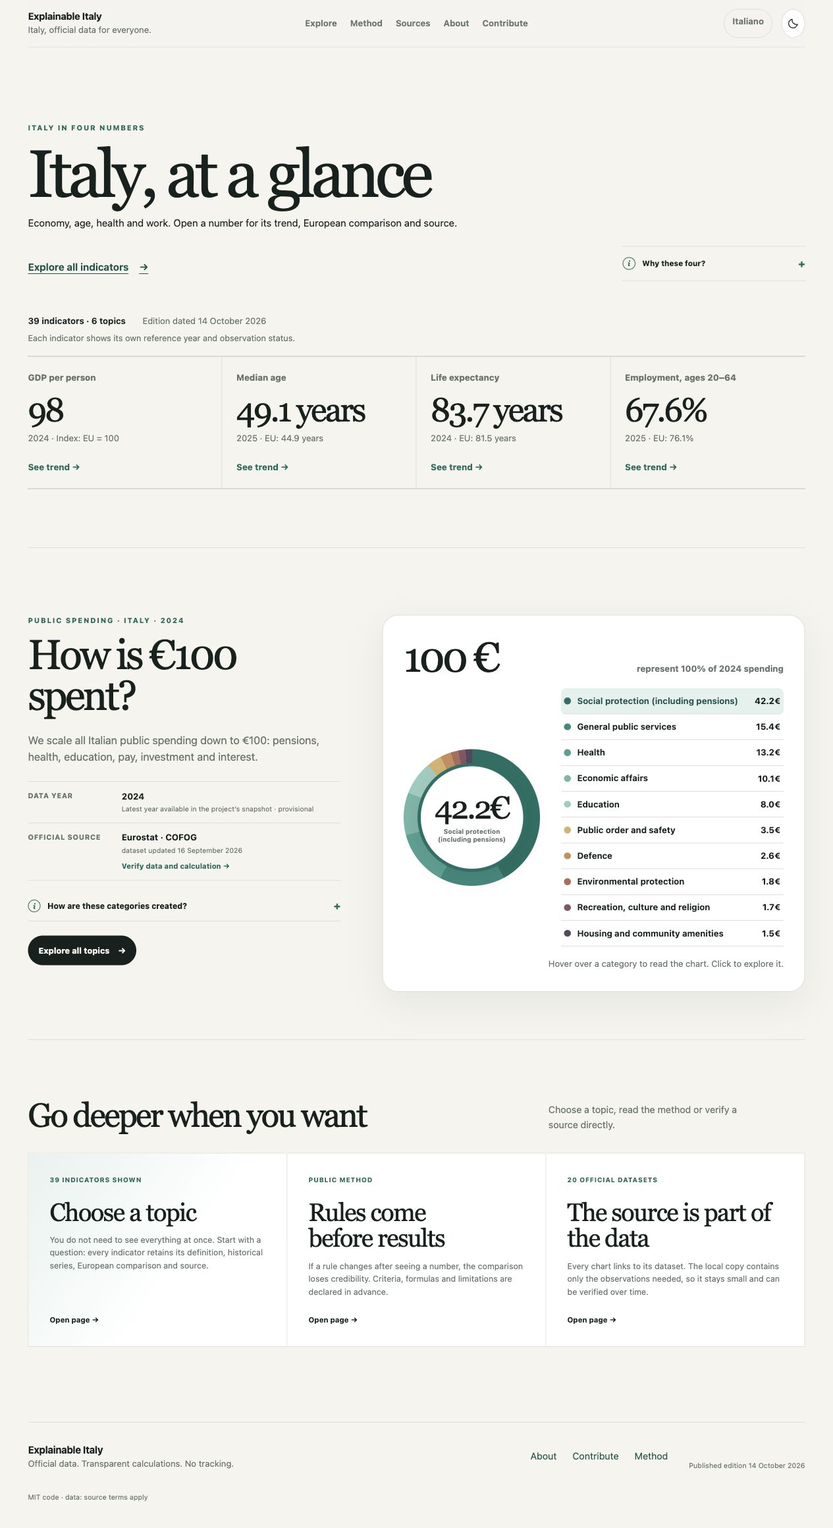
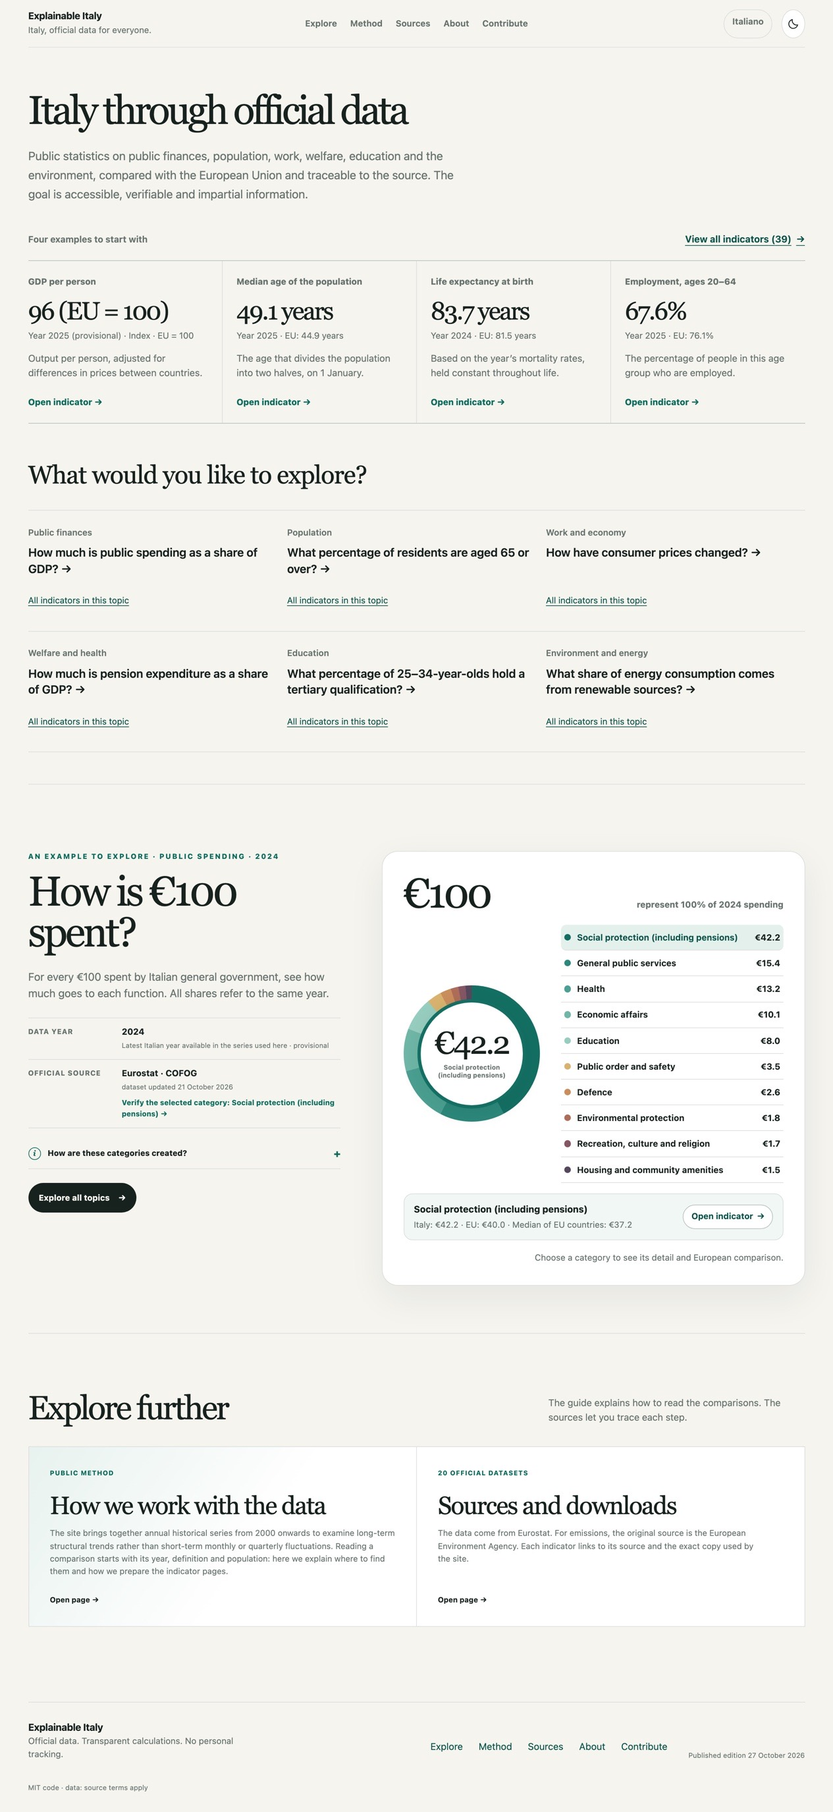
Refresh documentation, dashboard screenshots, localized social previews, and security audit

diff --git a/app/components/dashboard-copy.ts b/app/components/dashboard-copy.ts
@@ -274,15 +274,16 @@ export const copy = {
     futureBody:
       "Aggiungeremo nuovi temi quando avremo fonti adatte e confronti verificabili.",
     futureToggle: "Vedi le prossime aree di lavoro",
+    futureLink: "Consulta l’elenco completo delle possibili estensioni",
     roadmap: [
-      "Imposte, contributi e composizione del prelievo",
-      "Distribuzione dei redditi, disuguaglianza e potere d’acquisto",
-      "Medici, posti letto, tempi di attesa e risultati sanitari",
-      "Ricerca, innovazione, produttività e digitalizzazione",
-      "Giustizia, durata dei procedimenti e sistema carcerario",
-      "Trasporti, mobilità, sicurezza stradale e infrastrutture",
-      "Casa, affitti, mutui e costi dell’abitare",
-      "Commercio estero, dipendenza energetica e materie prime",
+      "Pressione fiscale, composizione delle entrate, saldo primario e fondi europei",
+      "Produttività per ora lavorata, salari reali, costo del lavoro ed export",
+      "Divario occupazionale di genere, lavoro temporaneo e ricerca e sviluppo",
+      "Reddito disponibile, disuguaglianza e povertà assoluta (fonte ISTAT)",
+      "Costo dell’abitazione, servizi per l’infanzia, giustizia e partecipazione culturale",
+      "Spesa sanitaria per funzione, personale sanitario e bisogni di cura non soddisfatti",
+      "Risultati scolastici comparabili, spesa per studente e mobilità sociale",
+      "Dipendenza energetica, emissioni pro capite, qualità dell’aria, suolo e mobilità",
     ],
     contributeEyebrow: "Open source",
     contributeTitle: "Aperto a chi vuole dare una mano",
@@ -312,7 +313,7 @@ export const copy = {
       "Ogni voce apre un modulo su GitHub. Serve un account e le segnalazioni, insieme alle risposte, sono pubbliche. Puoi scrivere in italiano o in inglese.",
     contributionGuide: "Come contribuire al codice",
     contributionLink: "Visita il progetto su GitHub",
-    footer: "Dati ufficiali. Elaborazioni trasparenti. Nessun tracciamento.",
+    footer: "Dati ufficiali. Elaborazioni trasparenti. Nessun tracciamento personale.",
     footerLicense: "Codice MIT · dati: condizioni delle fonti",
     themeLight: "Usa tema chiaro",
     themeDark: "Usa tema scuro",
@@ -574,15 +575,16 @@ export const copy = {
     futureBody:
       "We will add topics when suitable sources and verifiable comparisons are available.",
     futureToggle: "See the next areas of work",
+    futureLink: "Read the full list of possible extensions",
     roadmap: [
-      "Taxes, social contributions and the composition of the tax burden",
-      "Income distribution, inequality and purchasing power",
-      "Doctors, hospital beds, waiting times and health outcomes",
-      "Research, innovation, productivity and digitalisation",
-      "Justice, length of proceedings and the prison system",
-      "Transport, mobility, road safety and infrastructure",
-      "Housing, rents, mortgages and the cost of living",
-      "Foreign trade, energy dependence and raw materials",
+      "Tax burden, revenue composition, primary balance and EU funds",
+      "Productivity per hour worked, real wages, labour cost and exports",
+      "Gender employment gap, temporary work and research and development",
+      "Disposable income, inequality and absolute poverty (ISTAT)",
+      "Housing costs, early-childhood services, judicial times and cultural participation",
+      "Health spending by function, healthcare workforce and unmet medical needs",
+      "Comparable educational outcomes, spending per student and social mobility",
+      "Energy dependence, per-capita emissions, air quality, land take and mobility",
     ],
     contributeEyebrow: "Open source",
     contributeTitle: "Open to anyone who wants to help",
@@ -610,7 +612,7 @@ export const copy = {
       "Each option opens a GitHub form. You need an account, and reports and replies are public. You can write in English or Italian.",
     contributionGuide: "How to contribute code",
     contributionLink: "Visit the project on GitHub",
-    footer: "Official data. Transparent calculations. No tracking.",
+    footer: "Official data. Transparent calculations. No personal tracking.",
     footerLicense: "MIT code · data: source terms apply",
     themeLight: "Use light theme",
     themeDark: "Use dark theme",

diff --git a/app/metadata.ts b/app/metadata.ts
@@ -10,10 +10,10 @@ export function pageUrl(locale: Locale, path = "") {
 export function pageMetadata(locale: Locale, path: string, title: string, description?: string): Metadata {
   const fullTitle = title === "Explainable Italy" ? title : `${title} · Explainable Italy`;
   const image = {
-    url: `${siteUrl}/social-preview-v2.jpg`,
+    url: `${siteUrl}/${locale === "it" ? "social-preview-v2.jpg" : "social-preview-en-v2.jpg"}`,
     width: 1536,
     height: 804,
-    alt: locale === "it" ? "Explainable Italy. L’Italia, i dati ufficiali per tutti." : "Explainable Italy. Official data for everyone.",
+    alt: locale === "it" ? "Explainable Italy. L’Italia, i dati ufficiali per tutti." : "Explainable Italy. Italy, official data for everyone.",
   };
   return {
     title: fullTitle,

diff --git a/app/globals.css b/app/globals.css
@@ -272,19 +272,25 @@ p {
   border-bottom: 1px solid var(--line);
 }
 
-.roadmap h3 {
-  margin: 0;
-  font-family: Georgia, "Times New Roman", serif;
-  font-size: 2rem;
-  font-weight: 500;
-}
-
-.roadmap > div p {
-  color: var(--muted);
-}
-
 .roadmap li:nth-child(odd) {
   border-right: 1px solid var(--line);
+}
+
+.roadmap-more {
+  margin: 0;
+  border-top: 1px solid var(--line);
+  padding: 0.85rem 1rem;
+  font-size: 0.75rem;
+  font-weight: 680;
+}
+
+.roadmap-more a {
+  color: var(--accent);
+  text-decoration: none;
+}
+
+.roadmap-more a:hover {
+  text-decoration: underline;
 }
 
 .contribute-section .contribution-ways {

diff --git a/app/components/StaticViews.tsx b/app/components/StaticViews.tsx
@@ -224,6 +224,17 @@ export function AboutView({ locale }: { locale: Locale }) {
             <li key={item}>{item}</li>
           ))}
         </ol>
+        <p className="roadmap-more">
+          <a
+            href={`https://github.com/andrea-gentilini/explainable-italy/blob/main/docs/ROADMAP.md#${
+              locale === "it" ? "italiano" : "english"
+            }`}
+            target="_blank"
+            rel="noreferrer"
+          >
+            {labels.futureLink} <span aria-hidden="true">↗</span>
+          </a>
+        </p>
       </details>
     </section>
   );

diff --git a/README.md b/README.md
@@ -24,7 +24,7 @@ Explainable Italy makes official statistics about Italy easier to read, compare 
 
 ## For visitors — Explore and read the comparisons
 
-The six themes cover **public spending**, **population**, **work and the economy**, **welfare and health**, **education**, and **environment and energy**. You can search in everyday language, pick any available year, inspect the full historical series as a chart or accessible table, and open each indicator’s verification page to inspect definitions, national observations and source quality flags. Shareable URLs preserve the selected year and search context.
+The six themes cover **public finances**, **population**, **work and economy**, **welfare and health**, **education**, and **environment and energy**. You can search in everyday language, pick any available year, inspect the full historical series as a chart or accessible table, and open each indicator’s verification page to inspect definitions, national observations and source quality flags. Shareable URLs preserve the selected year and search context.
 
 For example, open [life expectancy in 2010](https://andrea-gentilini.github.io/explainable-italy/en/data/life-expectancy/?year=2010) and [verify its source and calculation](https://andrea-gentilini.github.io/explainable-italy/en/data/life-expectancy/source/?year=2010).
 
@@ -53,7 +53,7 @@ Every figure on the site can be traced and reproduced offline:
 
 - **Per-indicator CSV:** `/data/indicators/<id>.csv` (linked on every indicator card and verification page), containing the historical series for Italy, the official EU aggregate and the EU country median, with units, dataset code, coverage, missing countries and quality flags.
 - **Complete dataset in CSV and JSON:** [`public/data/dashboard.csv`](public/data/dashboard.csv) and [`public/data/dashboard.json`](public/data/dashboard.json) (both downloadable from the [Sources page](https://andrea-gentilini.github.io/explainable-italy/en/sources/)).
-- **Source register (`manifest.json`):** [`data/manifest.json`](data/manifest.json) (exported at `/data/manifest.json`), listing for all 20 datasets the exact API query URL, Eurostat Data Browser URL, official metadata URL, permanent DOI, source update date, project acquisition date, byte size and SHA256 checksum.
+- **Source register (`manifest.json`):** [`data/manifest.json`](data/manifest.json) (exported at `/data/manifest.json`), listing for all 20 datasets the exact API query URL, Eurostat Data Browser URL, official metadata URL (where published by Eurostat), permanent DOI, source update date, project acquisition date, byte size and SHA256 checksum.
 - **Exact raw snapshots:** [`data/raw/eurostat/`](data/raw/eurostat/) (exported byte-for-byte at `/data/raw/eurostat/<code>.json`), containing the exact JSON-stat responses used to compute the published edition. Links to the live Eurostat API are kept separate because upstream datasets can be revised after acquisition.
 
 ### Methodology and licensing
@@ -69,7 +69,7 @@ Every figure on the site can be traced and reproduced offline:
 
 ### Run locally
 
-Requires **Node.js 22.13 or newer** and **pnpm 11.9.0**.
+Requires **Node.js 22.13 or newer** (CI runs on **Node.js 24**) and **pnpm 11.9.0**.
 
 ```sh
 git clone https://github.com/andrea-gentilini/explainable-italy.git
@@ -95,8 +95,8 @@ Next.js and React generate a **static export** in `out/`. Search, year selection
 
 | Location | Contents |
 | --- | --- |
-| `app/` | Bilingual routes (`app/(it)/` default Italian, `app/en/` English), UI components and verification views |
-| `scripts/` | Eurostat JSON-stat acquisition, metadata rules, series processing, validation and refresh reporting |
+| `app/` | Bilingual routes (`app/(it)/` default Italian, `app/en/` English), UI components, unified stylesheet (`app/globals.css`) and verification views |
+| `scripts/` | Declarative indicator catalogue (`scripts/indicator-catalog.mjs`), Eurostat JSON-stat acquisition, metadata rules, series processing, validation and refresh reporting |
 | `data/raw/eurostat/` | Committed JSON-stat source snapshots |
 | `data/processed/` & `data/manifest.json` | Processed dashboard data and dataset provenance register |
 | `public/data/` | Publicly downloadable snapshots, `manifest.json`, `dashboard.json`, `dashboard.csv` and per-indicator CSVs |

diff --git a/DATA_LICENSE.md b/DATA_LICENSE.md
@@ -14,14 +14,16 @@ La licenza MIT in `LICENSE` riguarda il codice e la documentazione originale di 
 
 I dataset utilizzati sono diffusi da Eurostat. Per ogni dataset, `data/manifest.json` conserva:
 
-1. codice e titolo;
-2. collegamento al Data Browser;
-3. URL esatto della selezione API;
-4. DOI;
-5. data di aggiornamento comunicata dalla fonte;
-6. data di acquisizione del progetto;
-7. impronta SHA256 e dimensione della copia locale;
-8. percorso dello snapshot esatto scaricabile dal sito.
+1. istituzione che diffonde il dato e fonte originaria;
+2. codice e titolo;
+3. collegamento al Data Browser;
+4. collegamento ai metadati ufficiali (quando pubblicati da Eurostat);
+5. URL esatto della selezione API;
+6. DOI;
+7. data di aggiornamento comunicata dalla fonte;
+8. data di acquisizione del progetto;
+9. impronta SHA256 e dimensione della copia locale;
+10. percorso dello snapshot esatto scaricabile dal sito.
 
 Gli snapshot scaricabili sono copie delle selezioni ufficiali conservate dal progetto. I CSV e i JSON elaborati includono i riferimenti al dataset; i CSV dei singoli indicatori mantengono anche l’unità di misura.
 
@@ -33,7 +35,7 @@ Eurostat non è responsabile di traduzioni, sintesi accessibili, mediane, presen
 
 ### European Environment Agency
 
-Per il dataset Eurostat `sdg_13_10` e per l’inventario `env_air_gge`, i metadati indicano come fonte originaria la European Environment Agency (EEA), sulla base degli inventari UNFCCC.
+Per il dataset Eurostat `sdg_13_10` utilizzato dal sito (derivato dall’inventario `env_air_gge`), i metadati ufficiali indicano come fonte originaria la European Environment Agency (EEA), sulla base degli inventari UNFCCC.
 
 Si applicano anche le [condizioni di riuso EEA](https://www.eea.europa.eu/en/legal-notice). La fonte viene attribuita nella scheda, nella pagina di verifica, nella pagina Fonti e nel manifest.
 
@@ -53,14 +55,16 @@ The MIT licence in `LICENSE` applies to Explainable Italy’s original code and 
 
 The datasets used on this site are disseminated by Eurostat. For every dataset, `data/manifest.json` records:
 
-1. dataset code and title;
-2. link to the Eurostat Data Browser;
-3. exact API selection URL;
-4. permanent identifier (DOI);
-5. dataset update date reported by the source;
-6. project acquisition date;
-7. SHA256 checksum and byte size of the local copy;
-8. path to the exact snapshot downloadable from the site.
+1. disseminating institution and original institution;
+2. dataset code and title;
+3. link to the Eurostat Data Browser;
+4. link to official metadata (where published by Eurostat);
+5. exact API selection URL;
+6. permanent identifier (DOI);
+7. dataset update date reported by the source;
+8. project acquisition date;
+9. SHA256 checksum and byte size of the local copy;
+10. path to the exact snapshot downloadable from the site.
 
 The downloadable snapshots are local copies of the official API selections retained by the project for reproducibility. Processed CSV and JSON exports include dataset identifiers, and per-indicator CSVs also include the unit of measure.
 
@@ -72,7 +76,7 @@ Eurostat is not responsible for translations, accessible summaries, medians, pre
 
 ### European Environment Agency
 
-For Eurostat datasets `sdg_13_10` and `env_air_gge`, the official metadata identify the European Environment Agency (EEA), based on UNFCCC inventories, as the original source.
+For the Eurostat dataset `sdg_13_10` used on this site (derived from the `env_air_gge` inventory), the official metadata identify the European Environment Agency (EEA), based on UNFCCC inventories, as the original source.
 
 The [EEA legal notice and reuse terms](https://www.eea.europa.eu/en/legal-notice) also apply. The original source is attributed on the indicator card, on the source verification page, on the Sources page and in `data/manifest.json`.
 

diff --git a/SECURITY.md b/SECURITY.md
@@ -18,9 +18,9 @@ Il progetto è un sito statico: non usa cookie di profilazione, pubblicità o tr
 
 ### Verifica delle dipendenze
 
-Next.js ed `eslint-config-next` sono aggiornati alla versione `16.4.3`. Le librerie indirette `brace-expansion` e `js-yaml` sono aggiornate alle correzioni disponibili. `pnpm audit --prod` non segnala vulnerabilità note.
+Next.js ed `eslint-config-next` sono aggiornati alla versione `16.4.4`, React a `19.3.1`, ESLint a `10.14.0` e TypeScript a `6.0.3`. `pnpm audit --prod` non segnala vulnerabilità note.
 
-L’audit che include i pacchetti di sviluppo segnala [GHSA-vfj7-8cjw-p6xm](https://github.com/advisories/GHSA-vfj7-8cjw-p6xm) per `braces@3.0.3`, dipendenza indiretta del controllo ESLint. Non fa parte dei file del sito statico esportato. L’audit npm indica `>=3.0.4` come intervallo corretto, ma il registro npm pubblica ancora soltanto `3.0.3` come ultima versione e la pagina GHSA riporta che non è disponibile una versione corretta. Non esiste quindi una correzione installabile alla data della verifica. Il controllo lavora sui percorsi del repository; non deve ricevere pattern glob da utenti esterni. Il prossimo aggiornamento delle dipendenze deve ricontrollare questo avviso.
+L’audit che include i pacchetti di sviluppo segnala [GHSA-g3hv-75wg-m249](https://github.com/advisories/GHSA-g3hv-75wg-m249) (severità moderata) per `minimatch` (`3.1.5` e `10.2.6`), dipendenza indiretta di ESLint e dei relativi plugin. Non fa parte dei file del sito statico esportato. Entrambe le versioni installate sono le più recenti dei rispettivi rami principali (`3.x` e `10.x`), mentre la correzione indicata dall’avviso (`>=11.0.1`) appartiene a una nuova versione maggiore incompatibile non ancora adottata a monte da ESLint e dai suoi plugin. Il controllo lavora esclusivamente sui percorsi del repository e non riceve pattern glob da utenti esterni. Il prossimo aggiornamento delle dipendenze deve ricontrollare questo avviso.
 
 ---
 
@@ -38,6 +38,6 @@ The project exports a static site: it uses no profiling cookies, advertising or 
 
 ### Dependency audit
 
-Next.js and `eslint-config-next` are pinned at `16.4.3`. Indirect dependencies `brace-expansion` and `js-yaml` are pinned to patched releases. `pnpm audit --prod` reports zero known vulnerabilities.
+Next.js and `eslint-config-next` are pinned at `16.4.4`, React at `19.3.1`, ESLint at `10.14.0` and TypeScript at `6.0.3`. `pnpm audit --prod` reports zero known vulnerabilities.
 
-Running an audit that includes development-only packages still reports [GHSA-vfj7-8cjw-p6xm](https://github.com/advisories/GHSA-vfj7-8cjw-p6xm) on `braces@3.0.3`, an indirect dependency of ESLint. It is never shipped in the exported static site. While the advisory metadata lists `>=3.0.4` as the patched range, the npm registry still publishes `3.0.3` as the latest `3.x` release and the GHSA page states that no patched version is available. Because ESLint only runs against repository paths and never receives untrusted user glob patterns, practical risk is negligible; future dependency updates should re-check this advisory.
+Running an audit that includes development-only packages reports [GHSA-g3hv-75wg-m249](https://github.com/advisories/GHSA-g3hv-75wg-m249) (moderate severity) on `minimatch` (`3.1.5` and `10.2.6`), an indirect dependency of ESLint and its plugins. It is never shipped in the exported static site. Both installed releases are the latest available in their respective major branches (`3.x` and `10.x`), whereas the patched range (`>=11.0.1`) requires an incompatible major upgrade not yet adopted upstream by ESLint and its plugins. Because ESLint only runs against repository paths and never receives untrusted user glob patterns, practical risk is negligible; future dependency updates should re-check this advisory.

diff --git a/docs/METHODOLOGY.md b/docs/METHODOLOGY.md
@@ -18,7 +18,7 @@ Il progetto usa dataset armonizzati diffusi da Eurostat. Per le emissioni di gas
 
 1. codice del dataset
 2. collegamento al Data Browser
-3. collegamento ai metadati
+3. collegamento ai metadati ufficiali (quando pubblicati da Eurostat)
 4. URL esatto usato per il download
 5. data di aggiornamento comunicata dalla fonte
 6. DOI
@@ -63,7 +63,7 @@ I valori ufficiali non vengono cambiati. Gli snapshot normalizzano soltanto gli 
 
 Il valore italiano e l’aggregato UE ufficiale sono osservazioni della fonte. La mediana è un’elaborazione del progetto. La pagina di verifica separa queste operazioni e rende leggibili i valori nazionali utilizzati per ogni anno selezionabile, con la copertura effettiva. Il JSON conserva queste osservazioni per tutta la serie; i CSV, compresi quelli dei singoli indicatori, riportano unità, dataset, copertura e contrassegni.
 
-Per la domanda “dove vanno 100 euro di spesa pubblica” si usa il dataset COFOG con unità `PC_TOT`. Le dieci funzioni principali descrivono la quota percentuale della spesa complessiva delle Amministrazioni pubbliche. Il totale può differire da 100 di pochi decimi a causa dell’arrotondamento della fonte.
+Per la sezione “Come si spendono 100 €?” si usa il dataset COFOG con unità `PC_TOT`. Le dieci funzioni principali descrivono la quota percentuale della spesa complessiva delle Amministrazioni pubbliche. Il totale può differire da 100 di pochi decimi a causa dell’arrotondamento della fonte.
 
 Il valore “vecchiaia” è una sottofunzione della protezione sociale. Non si somma alle dieci funzioni principali. Non coincide con tutta la spesa pensionistica.
 
@@ -127,7 +127,7 @@ The project uses harmonised datasets published by Eurostat. For greenhouse-gas e
 
 1. dataset code
 2. link to the Eurostat Data Browser
-3. link to official metadata
+3. link to official metadata (where published by Eurostat)
 4. exact API URL used for acquisition
 5. dataset update date reported by the source
 6. permanent identifier (DOI)
@@ -172,7 +172,7 @@ Official values are not altered. Snapshots only normalise trailing whitespace fr
 
 The Italian value and the official EU aggregate come directly from the source. The median is calculated by the project. Each verification page separates these steps and lists the national observations used for any selectable year, together with actual country coverage. The processed JSON retains these observations across the full series; the CSV files, including per-indicator CSVs, include units, dataset codes, coverage and quality flags.
 
-For the “How is €100 of public spending allocated?” view, the site uses the COFOG dataset with unit `PC_TOT`. The ten main divisions represent shares of total general government expenditure. Their sum may differ from 100 by a few tenths due to source rounding.
+For the “How is €100 spent?” view, the site uses the COFOG dataset with unit `PC_TOT`. The ten main divisions represent shares of total general government expenditure. Their sum may differ from 100 by a few tenths due to source rounding.
 
 The “old age” figure (`GF1002`) is a sub-function of social protection (`GF10`). It is not added to the ten main divisions, and its scope differs from total pension expenditure measured in ESSPROS.
 

diff --git a/README.it.md b/README.it.md
@@ -8,7 +8,7 @@ Explainable Italy rende più facili da leggere, confrontare e verificare i dati 
 
 È un progetto civico indipendente e open source (versione **1.0.0**), non un sito istituzionale ufficiale. Il sito ha l’italiano come lingua predefinita e una versione inglese completa.
 
-![La dashboard di Explainable Italy](docs/images/dashboard.jpg)
+![La dashboard di Explainable Italy](docs/images/dashboard-it.jpg)
 
 ---
 
@@ -53,7 +53,7 @@ Ogni valore pubblicato sul sito può essere scaricato e ricalcolato a partire da
 
 - **CSV del singolo indicatore:** `/data/indicators/<id>.csv` (scaricabile da ogni scheda indicatore e dalla relativa pagina di verifica), con l’intera serie storica di Italia, aggregato UE e mediana, unità di misura, codice dataset, copertura, Paesi mancanti e contrassegni.
 - **Dataset completo in CSV e JSON:** [`public/data/dashboard.csv`](public/data/dashboard.csv) e [`public/data/dashboard.json`](public/data/dashboard.json) (entrambi scaricabili anche dalla [pagina Fonti](https://andrea-gentilini.github.io/explainable-italy/sources/)).
-- **Registro delle fonti (`manifest.json`):** [`data/manifest.json`](data/manifest.json) (pubblicato anche in `/data/manifest.json`), che registra per ciascuno dei 20 dataset codice, titolo, link al Data Browser Eurostat, link ai metadati ufficiali, URL esatto della query API, DOI, data di aggiornamento della fonte, data di acquisizione, dimensione in byte e impronta SHA256.
+- **Registro delle fonti (`manifest.json`):** [`data/manifest.json`](data/manifest.json) (pubblicato anche in `/data/manifest.json`), che registra per ciascuno dei 20 dataset codice, titolo, link al Data Browser Eurostat, link ai metadati ufficiali (quando pubblicati da Eurostat), URL esatto della query API, DOI, data di aggiornamento della fonte, data di acquisizione, dimensione in byte e impronta SHA256.
 - **Snapshot ufficiali grezzi:** [`data/raw/eurostat/`](data/raw/eurostat/) (scaricabili byte per byte da `/data/raw/eurostat/<code>.json`), contenenti le risposte JSON-stat esatte usate per generare il sito. I collegamenti all’API Eurostat corrente sono indicati separatamente perché la fonte può aggiornare i dati nel tempo.
 
 ### Metodologia e condizioni di riuso

diff --git a/.github/PULL_REQUEST_TEMPLATE.md b/.github/PULL_REQUEST_TEMPLATE.md
@@ -8,8 +8,7 @@ Per modifiche ai dati, indica dataset, metadati, unità, anni e controlli manual
 
 ## Controlli / Checks
 
-1. [ ] Ho eseguito `pnpm lint` / Ran `pnpm lint`
-2. [ ] Ho eseguito `pnpm test` / Ran `pnpm test`
-3. [ ] Ho aggiornato italiano e inglese / Updated both Italian and English
-4. [ ] Ho verificato leggibilità e navigazione da tastiera / Verified readability and keyboard navigation
-5. [ ] Ho segnalato dati provvisori, stime o interruzioni di serie / Disclosed provisional data, estimates or series breaks
+1. [ ] Ho eseguito `pnpm check` (lint, validazione dati, build statica e test) / Ran `pnpm check` (lint, data validation, static build and tests)
+2. [ ] Ho aggiornato italiano e inglese / Updated both Italian and English
+3. [ ] Ho verificato leggibilità e navigazione da tastiera / Verified readability and keyboard navigation
+4. [ ] Ho segnalato dati provvisori, stime o interruzioni di serie / Disclosed provisional data, estimates or series breaks
